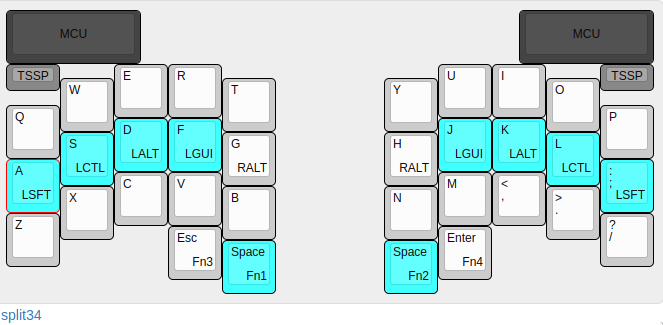
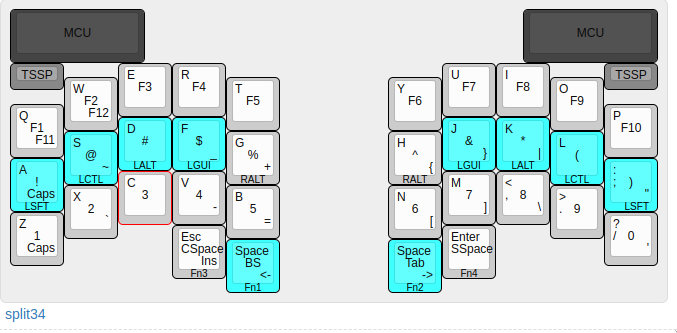
HTML rebuilt: 2022-03-20T15:01:26+00:00

diff --git a/jp/2022/03/15/home-mt/index.html b/jp/2022/03/15/home-mt/index.html
@@ -36,7 +36,7 @@
 
 <h3 class="date">Date:
 2022/03/15 (initial publish),
-2022/03/20 (last update)
+2022/03/21 (last update)
 </h3>
 </div>
 
@@ -117,8 +117,8 @@
 <p><a href="https://docs.qmk.fm/#/feature_auto_shift?id=retro-shift">Retro Shift</a>を有効にしています。</p>
 <p>Thumb（親指）キーで押している際に１時的に有効化する一時レイヤーは実質２つで、横3列の３０物理キーで９０のキーがカバーできます。<code>MT()</code>機能を上手につかえばThumbキーは２つでもレイヤー実現に充分です。ただ、押しやすさと、<code>LT()</code>に加え<code>MT()</code>まで使うのを避けるために、各レイヤーを左右別にして４レイヤーとして打ちやすくレスポンスよくしています。</p>
 <ul>
-<li>Thumbキーのホームポジションを押すと、ファンクションキー・記号・数字のレイヤーです。</li>
-<li>Thumbキーの隣のポジションを押すと、横10個のキーでカバーしきれなかったキーボード端の記号と、固定レーヤー2~4への移動キーのレイヤーです。</li>
+<li>Thumbキーのホームポジションを押すと、ファンクションキー・記号・数字のレイヤー(FL1, FL2)です。</li>
+<li>Thumbキーの隣のポジションを押すと、横10個のキーでカバーしきれなかったキーボード端の記号と、固定レーヤー2~4への移動キーのレイヤー(FL3, FL4)です。</li>
 <li>Thumbキーを押している側は、ホームポジションのA行のキーはモードキーとなります。</li>
 </ul>
 <p>上記１時レイヤー以外に、レイヤー移動後固定されるレイヤーが４つあり、カーソル・テンキー・マウスキー・キーボード自体の設定レイヤーとなります。</p>
@@ -139,6 +139,7 @@
 </ul>
 <p><a href="http://www.keyboard-layout-editor.com/#/gists/9d8227f51f5da1dcf325c8d2e4275bba">KLEで実際にこのcgc56キーボードのwide keymap</a>で使う覚えるべき２レイヤーをまとめました。</p>
 <p><img src="/img/cgc56-wide.png" alt="cgc56:wide BL1, FL2FL/3 in QWFRTY)"></p>
+<p>上のキーマップがFn1~F4の何れも押さない場合、下のキーマップがFn1かF2のいずれかがが押された場合です。</p>
 <p>ちなみに上記の既に作ったキーボードは大きめの40%ともいえる、4 x 14 ortholinearキーボードですが、キーマップのベースが30％系なので、それに相当する「基本的に使う部分」だけからなる片側<code>3x5_2</code>キー構成なら、ドーターボードも含めてすべてが片側10cm角に収まりそうです。</p>
 <p><img src="/img/split34.png" alt="片側３４キーのスプリットキーボードのイメージ"></p>
 <h2 id="pcb参考情報">PCB参考情報</h2>
